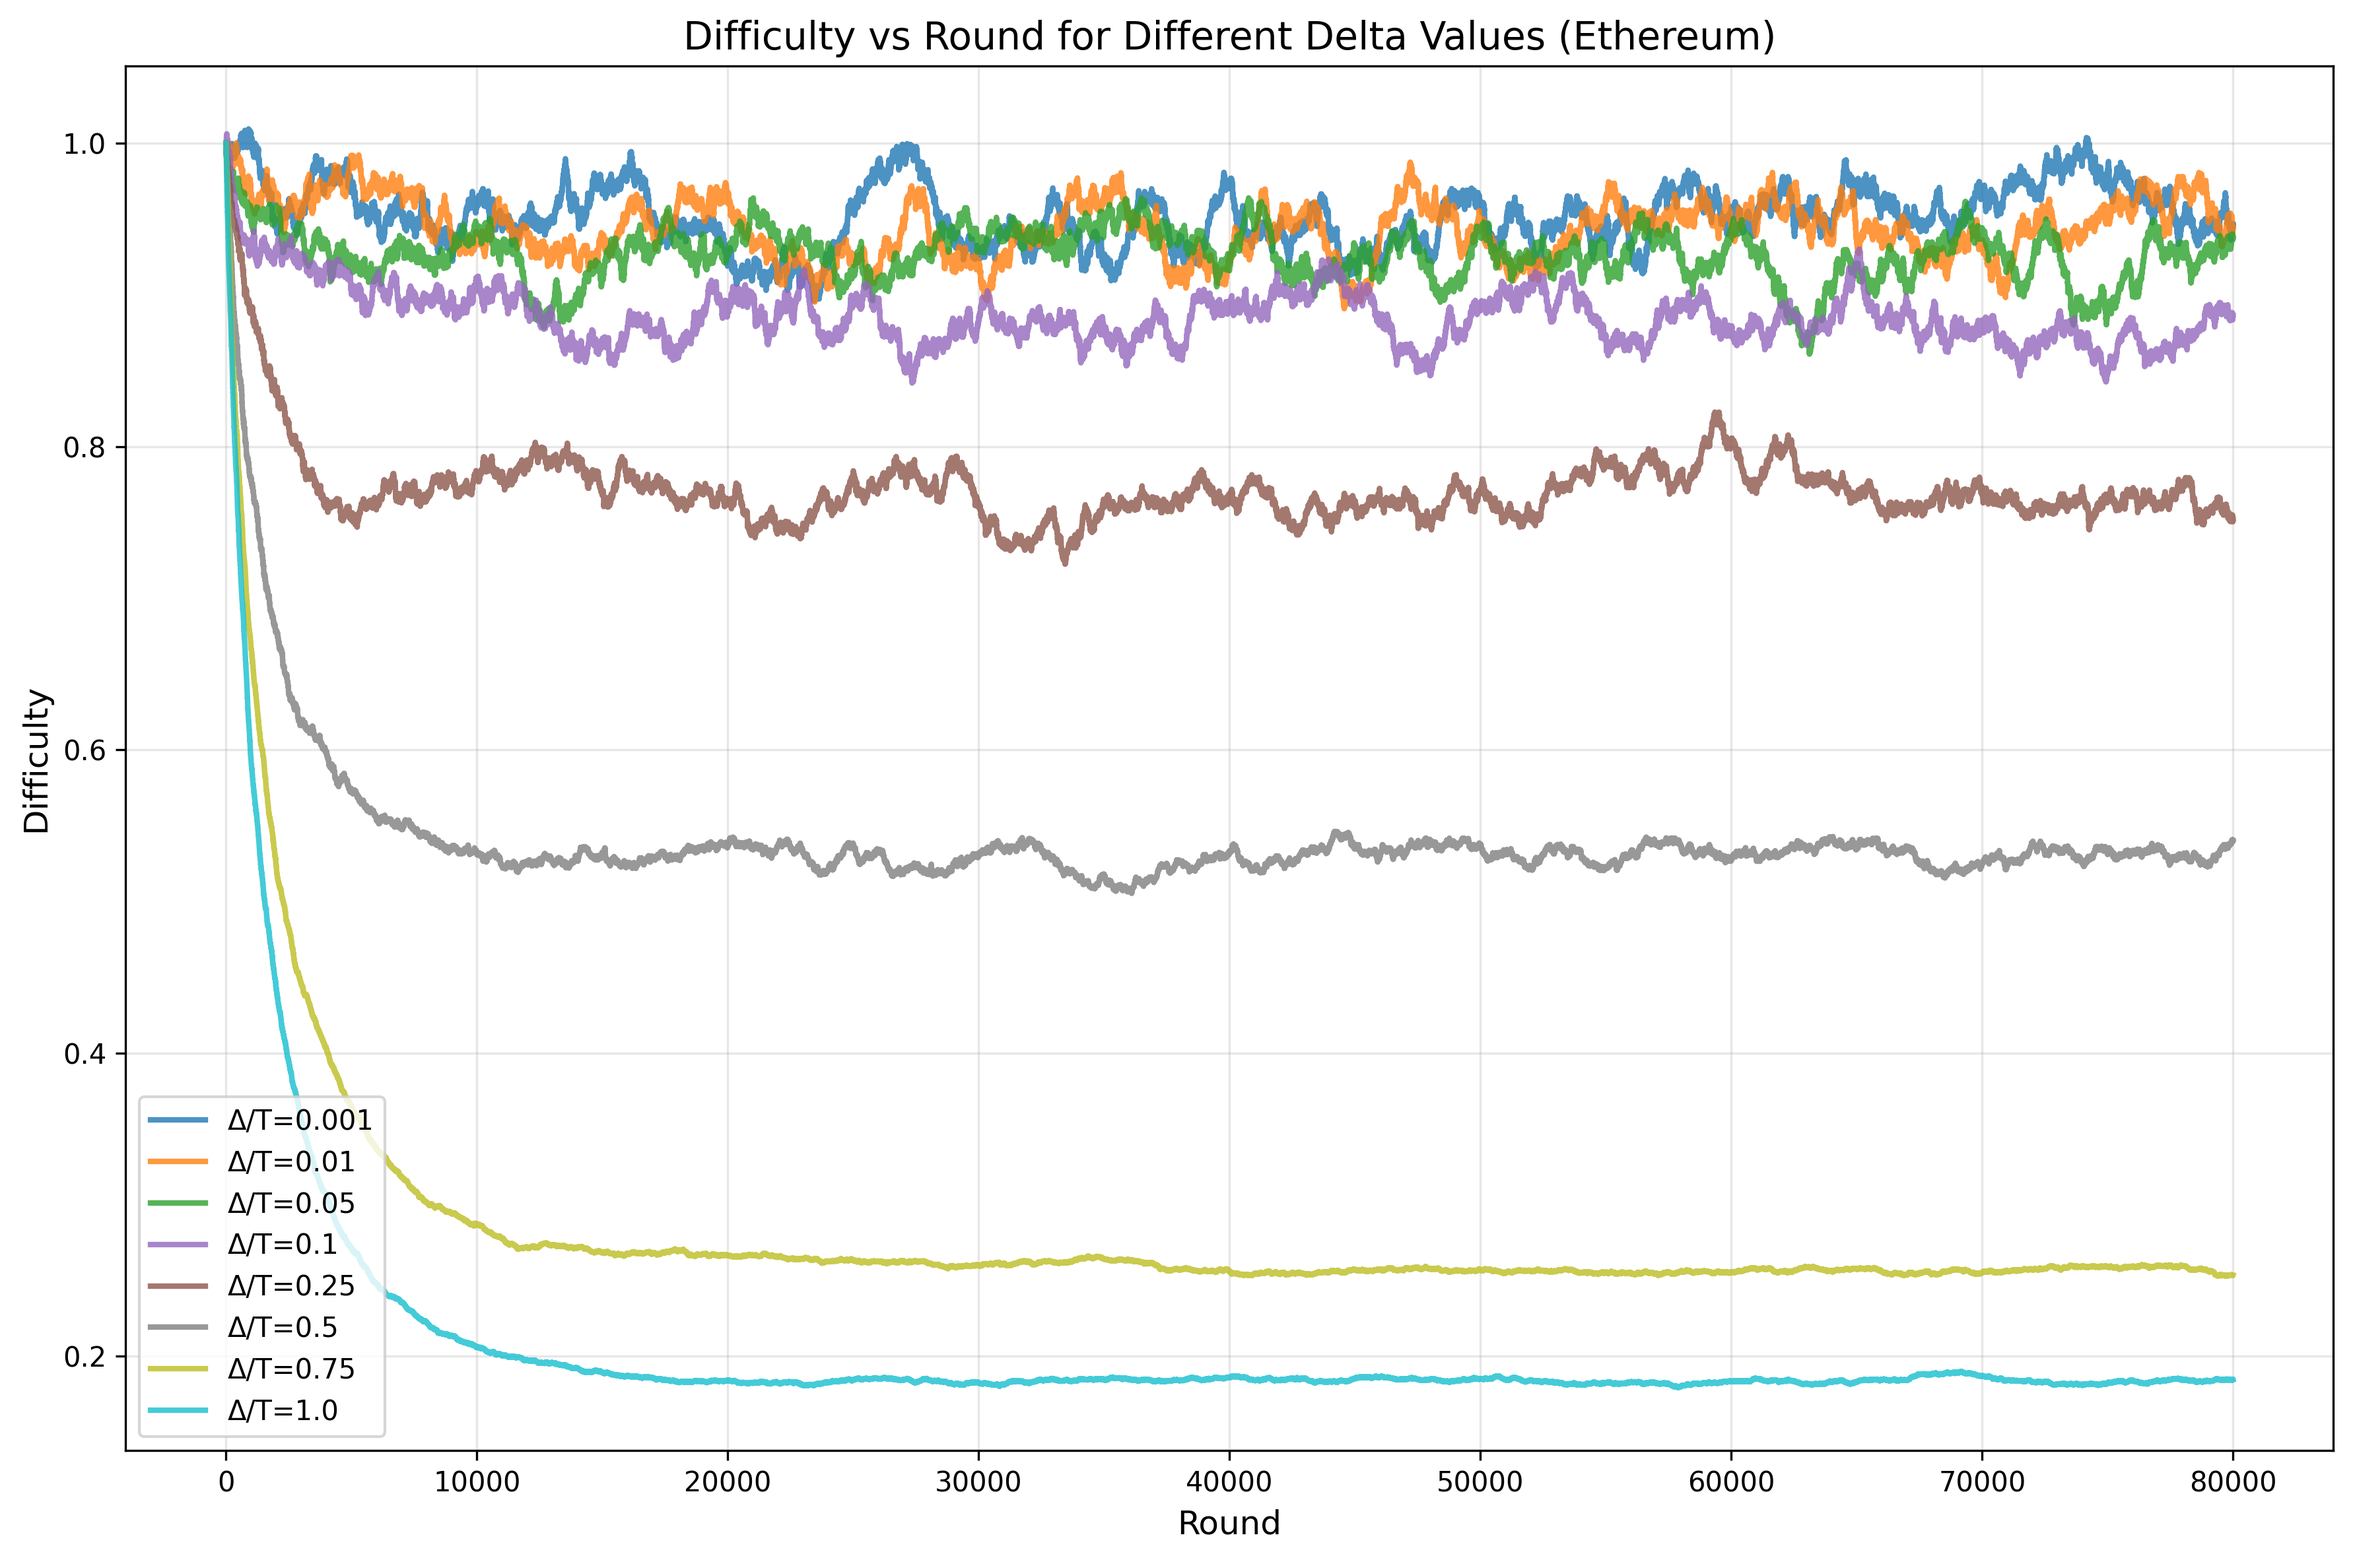
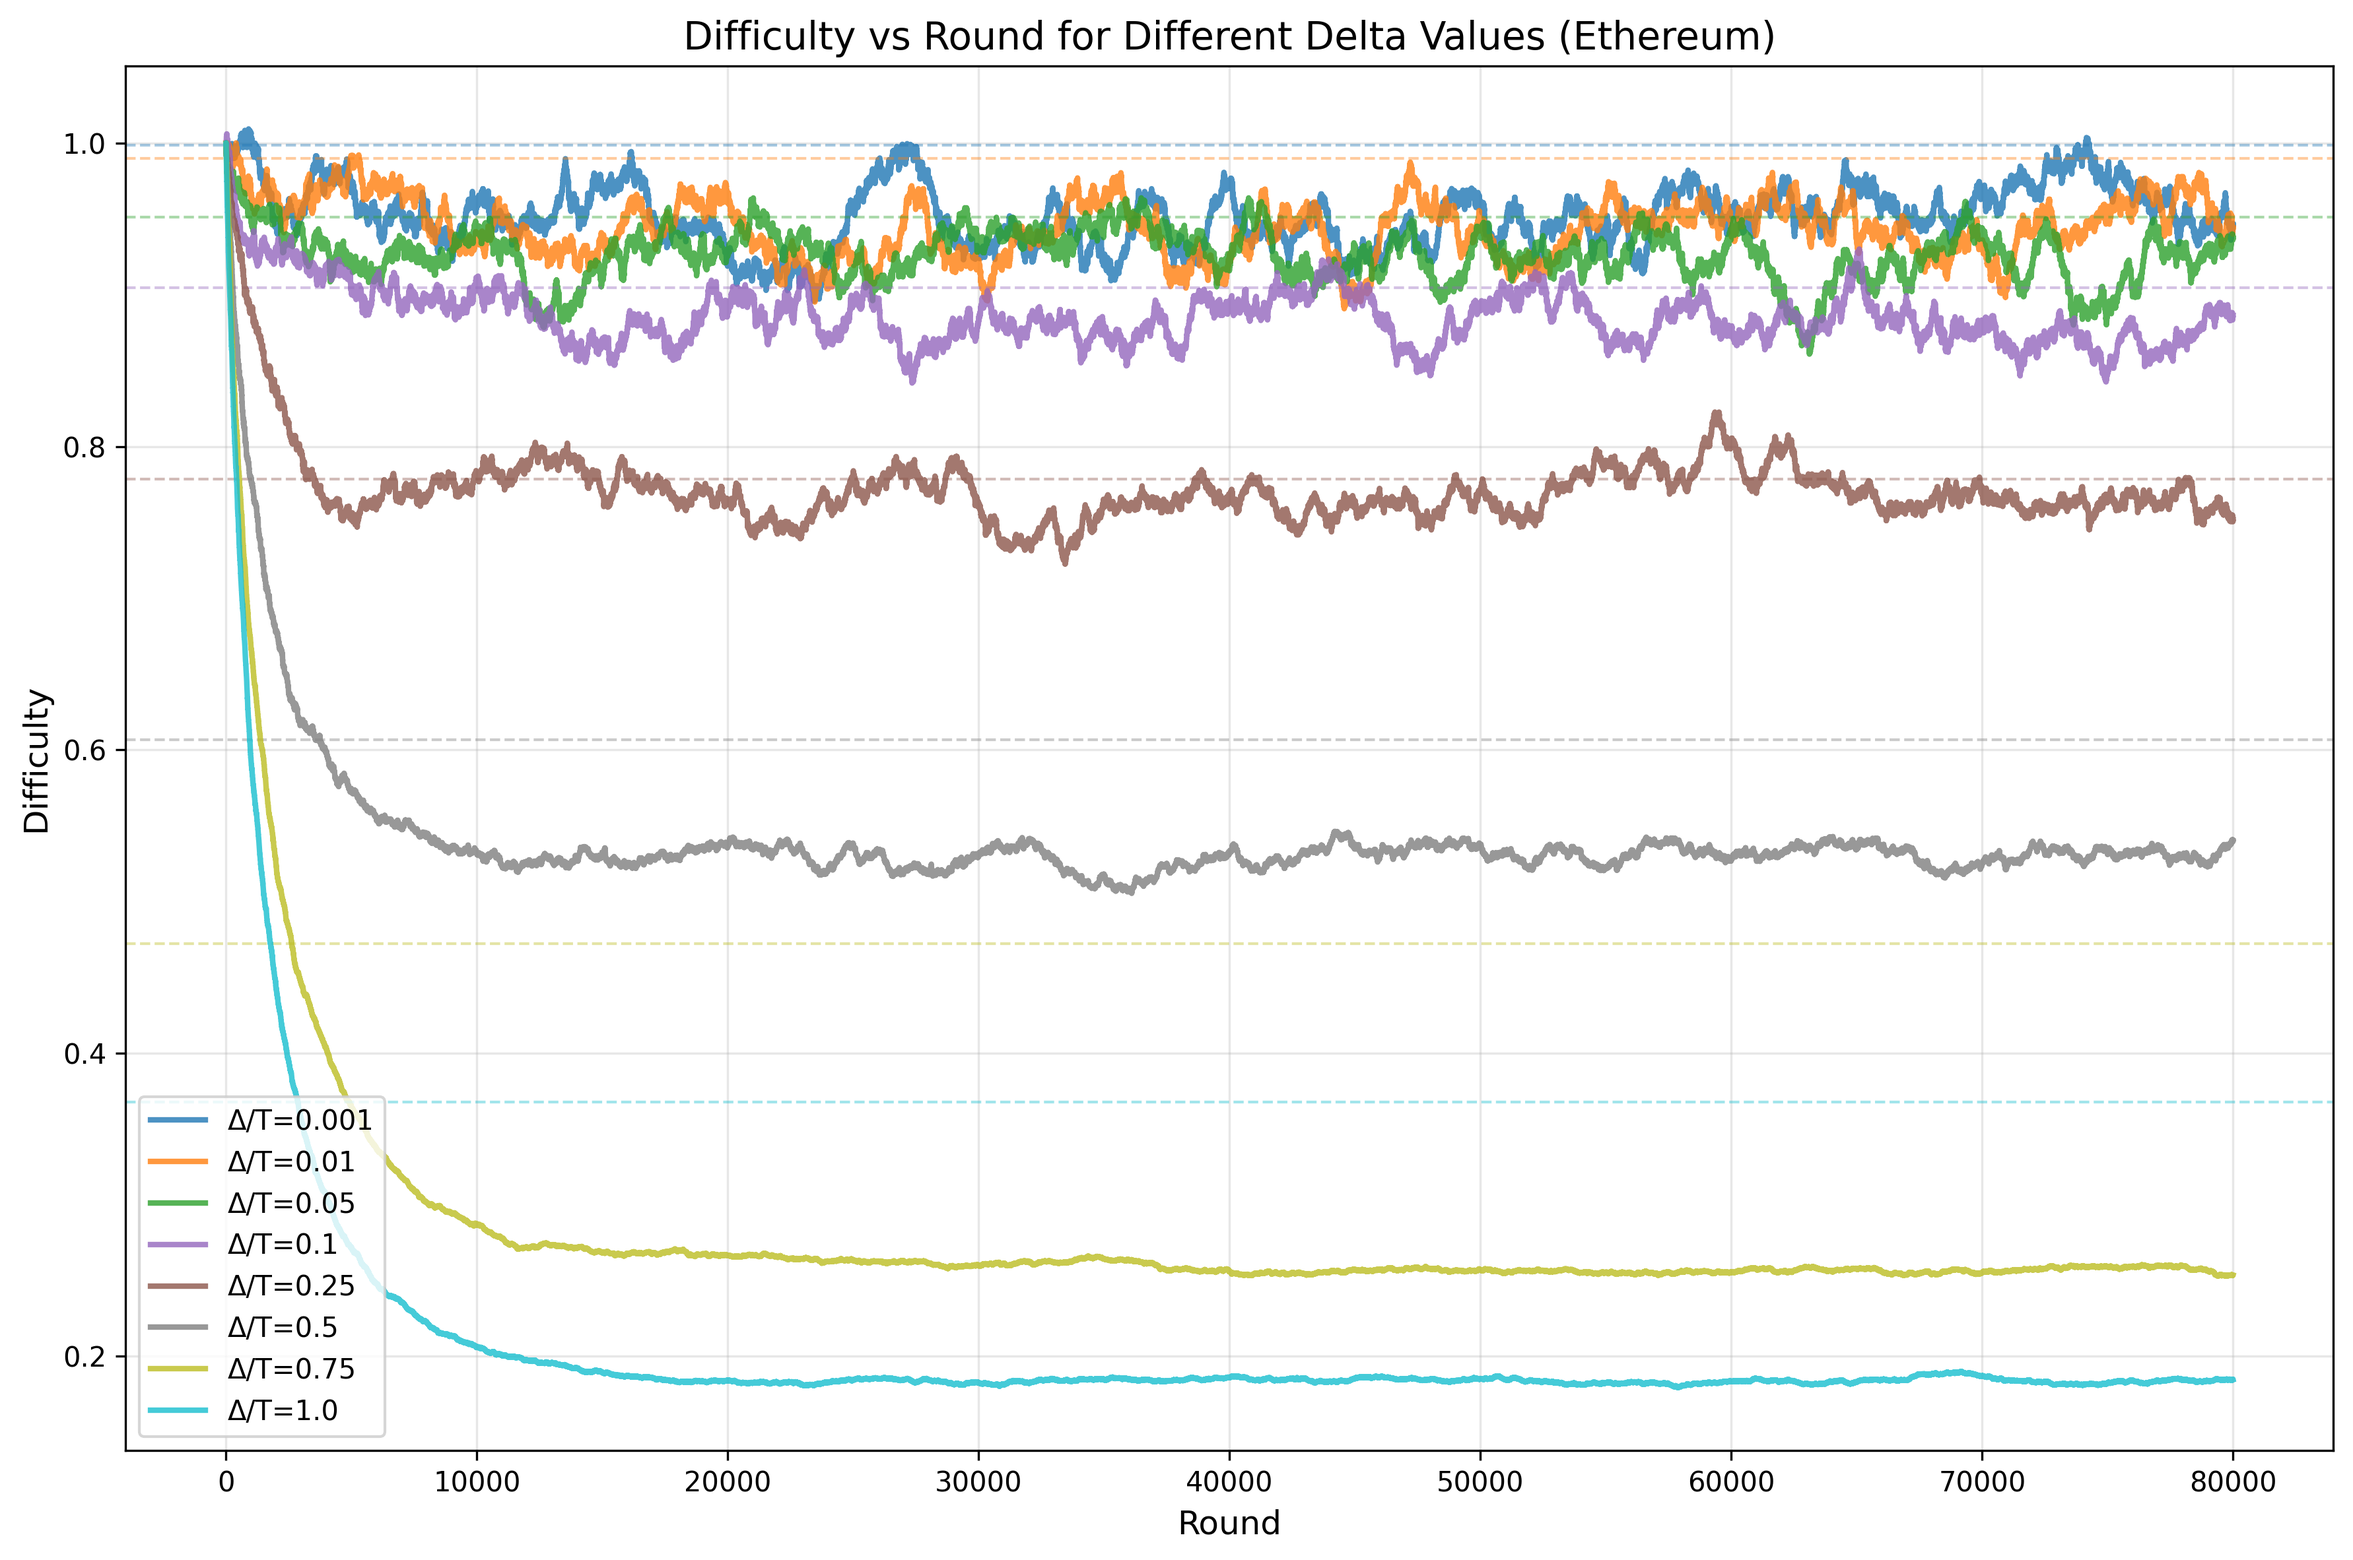
収束先をプロット

diff --git a/experiment/plot-difficulty.py b/experiment/plot-difficulty.py
@@ -144,6 +144,16 @@ def plot_specific_deltas(delta_values=None, output_file="plot.png", protocol="")
                 alpha=0.8,
             )
 
+            # 収束先の水平線を追加（exp(-delta)）
+            convergence_value = np.exp(-delta)
+            plt.axhline(
+                y=convergence_value,
+                color=colors[i],
+                linestyle='--',
+                alpha=0.4,
+                linewidth=1
+            )
+
             plotted_count += 1
             print(f"✓ {csv_file} をプロットしました (データ数={len(df)})")
 
